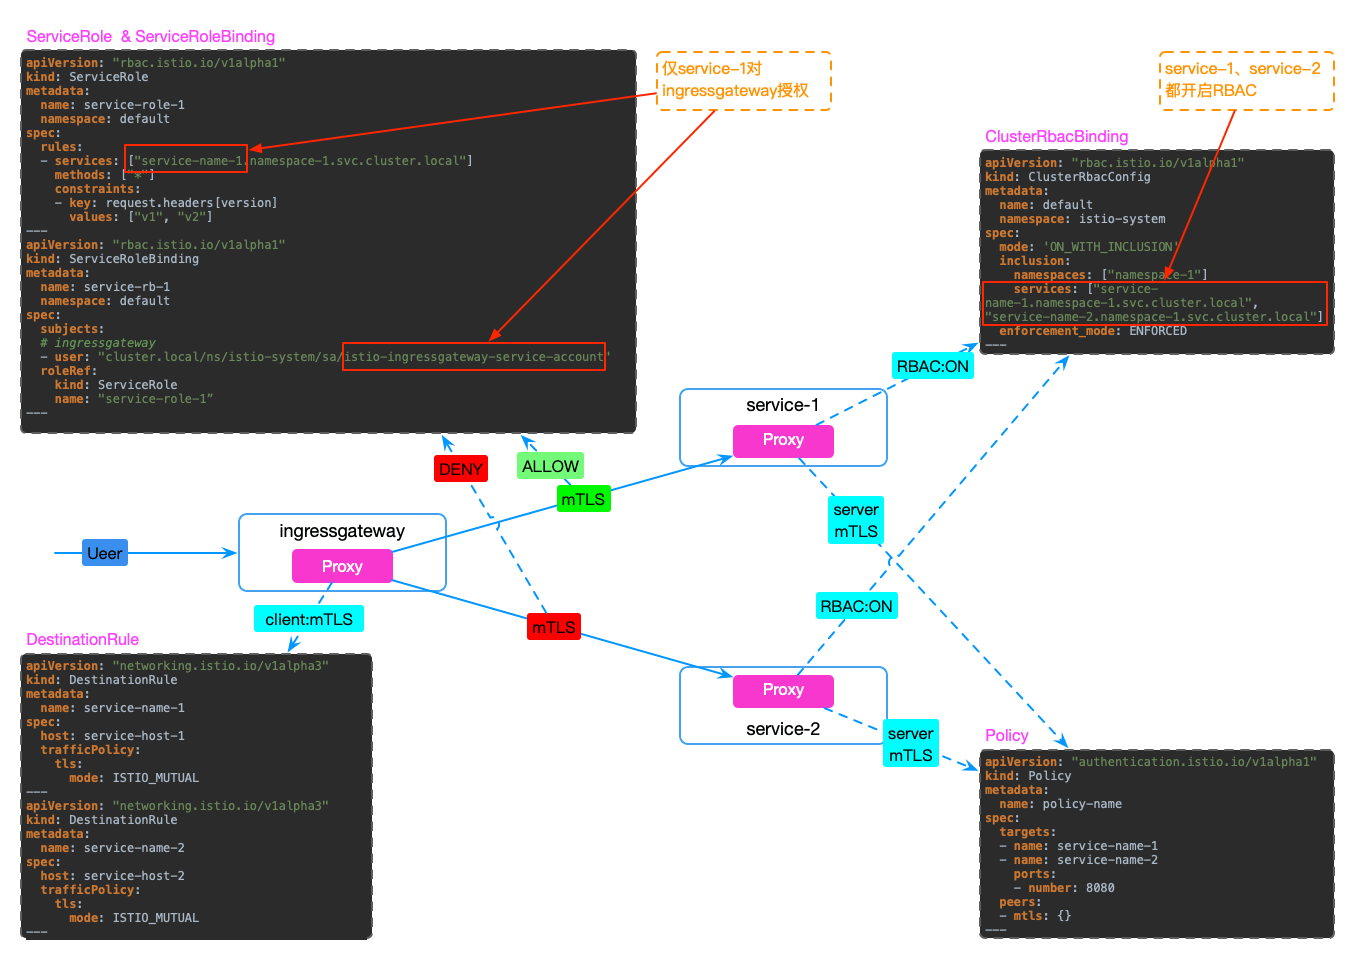
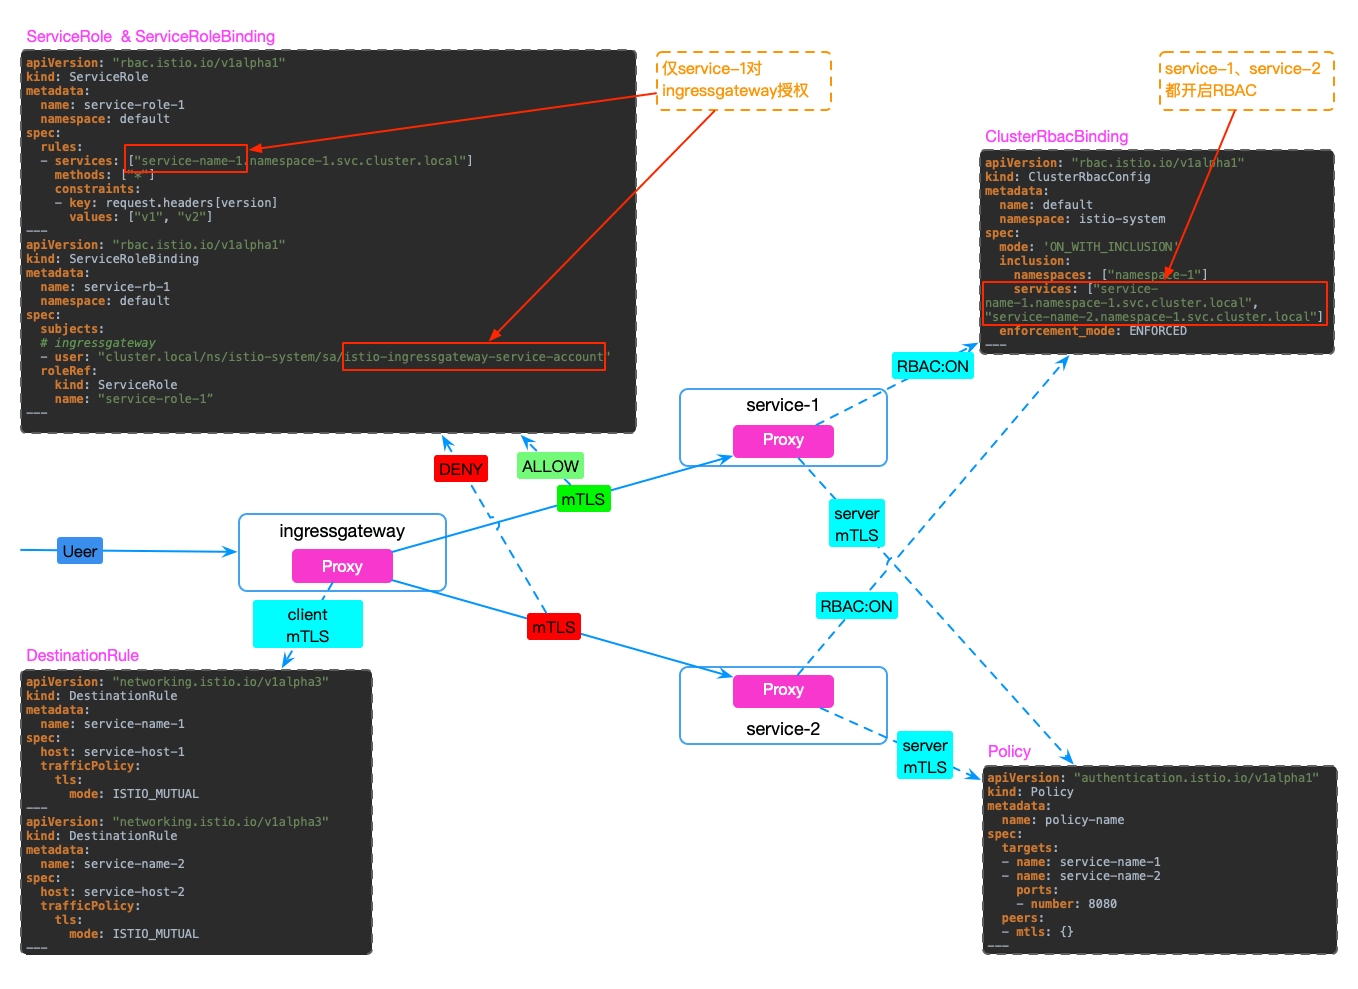
图片链接错误

diff --git a/public/post/servicemesh/2019-03-09-istio-rbac-quick-start/index.html b/public/post/servicemesh/2019-03-09-istio-rbac-quick-start/index.html
@@ -192,7 +192,7 @@
 </ul></li>
 </ul>
 
-<p><img src="https://raw.githubusercontent.com/hb-go/micro-mesh/master/doc/img/istio-tls-rbac.png" alt="auth-adapter" /></p>
+<p><img src="https://raw.githubusercontent.com/hb-chen/hbchen.com/master/static/img/istio-tls-rbac.png" alt="auth-adapter" /></p>
 
 <h2 id="双向tls">双向TLS</h2>
 
